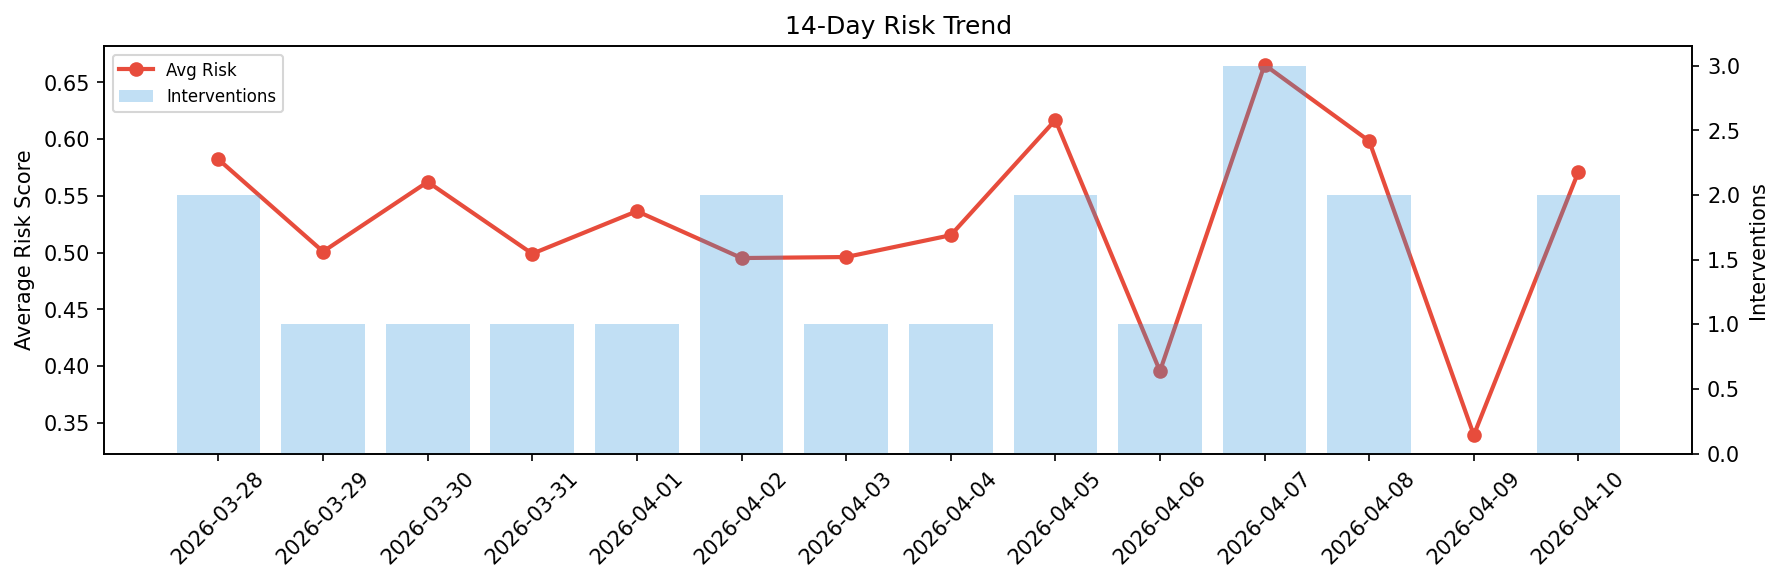
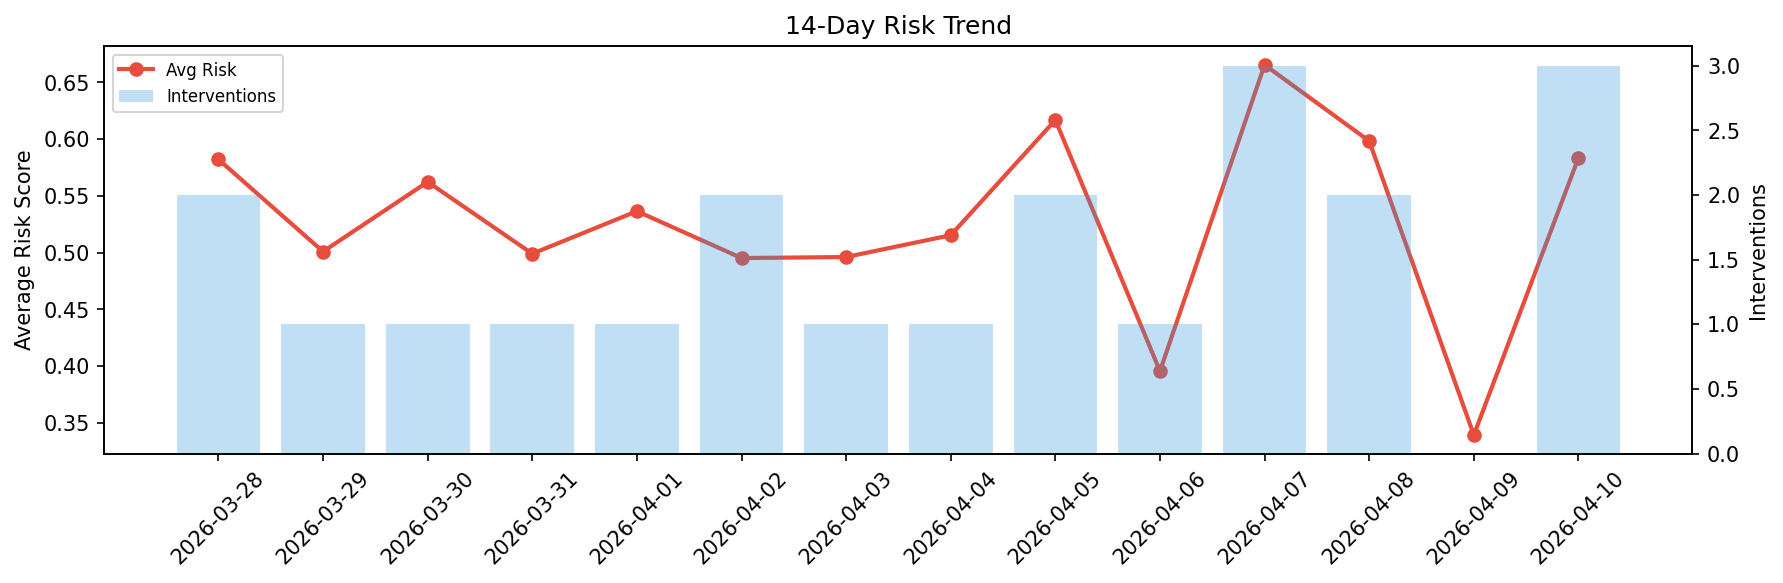
agent-improvement: daily cycle 2026-04-10T09:38

Changed region(s): [[0.8637, 0.0926, 0.9254, 0.4322], [0.8329, 0.4631, 0.8637, 0.5557]]

diff --git a/logs/2026-04-10.md b/logs/2026-04-10.md
@@ -1,6 +1,6 @@
 # Agent Improvement Report — 2026-04-10
 
-**Cycle ID:** `88629ea7` | **Avg Risk:** 0.5713 | **Interventions:** 2/4
+**Cycle ID:** `9b1089ad` | **Avg Risk:** 0.5835 | **Interventions:** 3/4
 
 ![Dashboard](2026-04-10_dashboard.png)
 
@@ -10,18 +10,18 @@
 
 | Domain | Risk Score | Decision | Alerts |
 |--------|-----------|----------|--------|
-| code_review | 0.7584 | intervene | complexity, duplication |
-| incident_response | 0.3368 | monitor | none |
-| data_pipeline | 0.5888 | monitor | schema_drift |
-| deployment | 0.601 | intervene | rollback_rate |
+| code_review | 0.6195 | intervene | duplication |
+| incident_response | 0.6632 | intervene | mttr |
+| data_pipeline | 0.6109 | intervene | freshness |
+| deployment | 0.4404 | monitor | canary_error |
 
 ## Delta vs Yesterday
 
 | Domain | Today | Yesterday | Change |
 |--------|-------|-----------|--------|
-| code_review | 0.7584 | 0.3386 | 📈 124.0% |
-| incident_response | 0.3368 | 0.4869 | 📉 -30.8% |
-| data_pipeline | 0.5888 | 0.2547 | 📈 131.2% |
-| deployment | 0.601 | 0.2773 | 📈 116.7% |
+| code_review | 0.6195 | 0.3386 | 📈 83.0% |
+| incident_response | 0.6632 | 0.4869 | 📈 36.2% |
+| data_pipeline | 0.6109 | 0.2547 | 📈 139.9% |
+| deployment | 0.4404 | 0.2773 | 📈 58.8% |
 
 **Refinement:** `{'adjustment': 'maintain', 'trend': 'improving', 'window': 4}`
